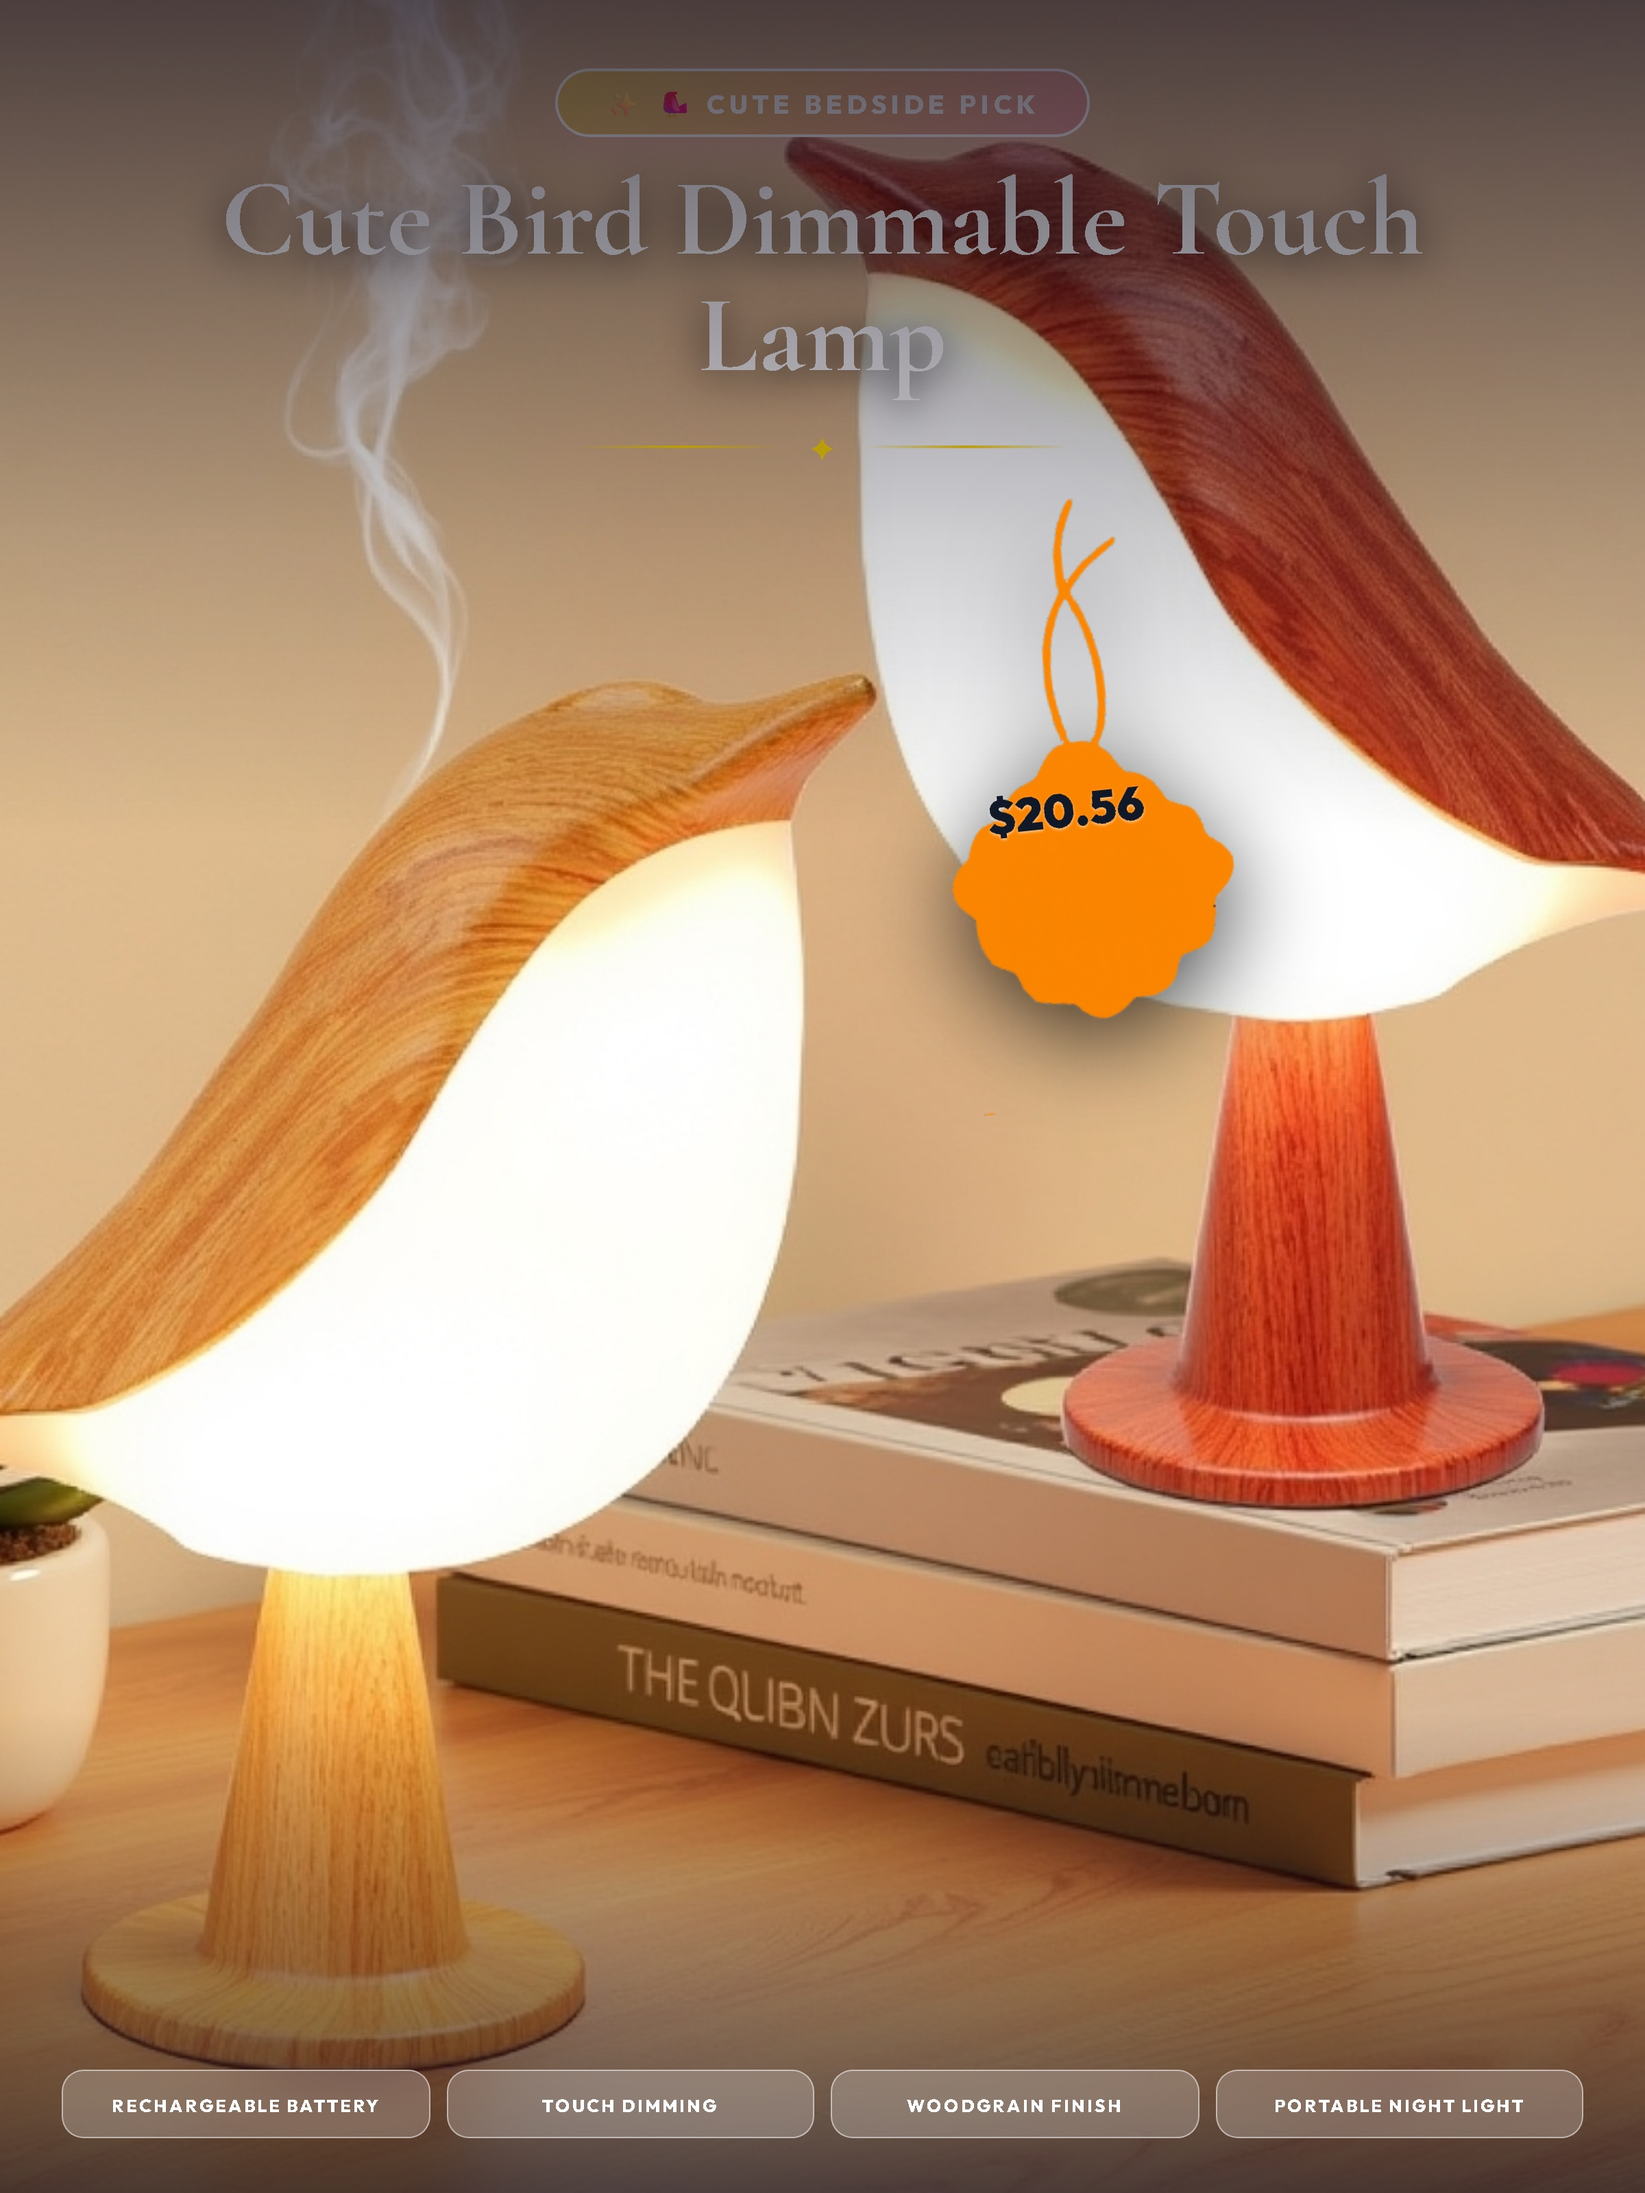
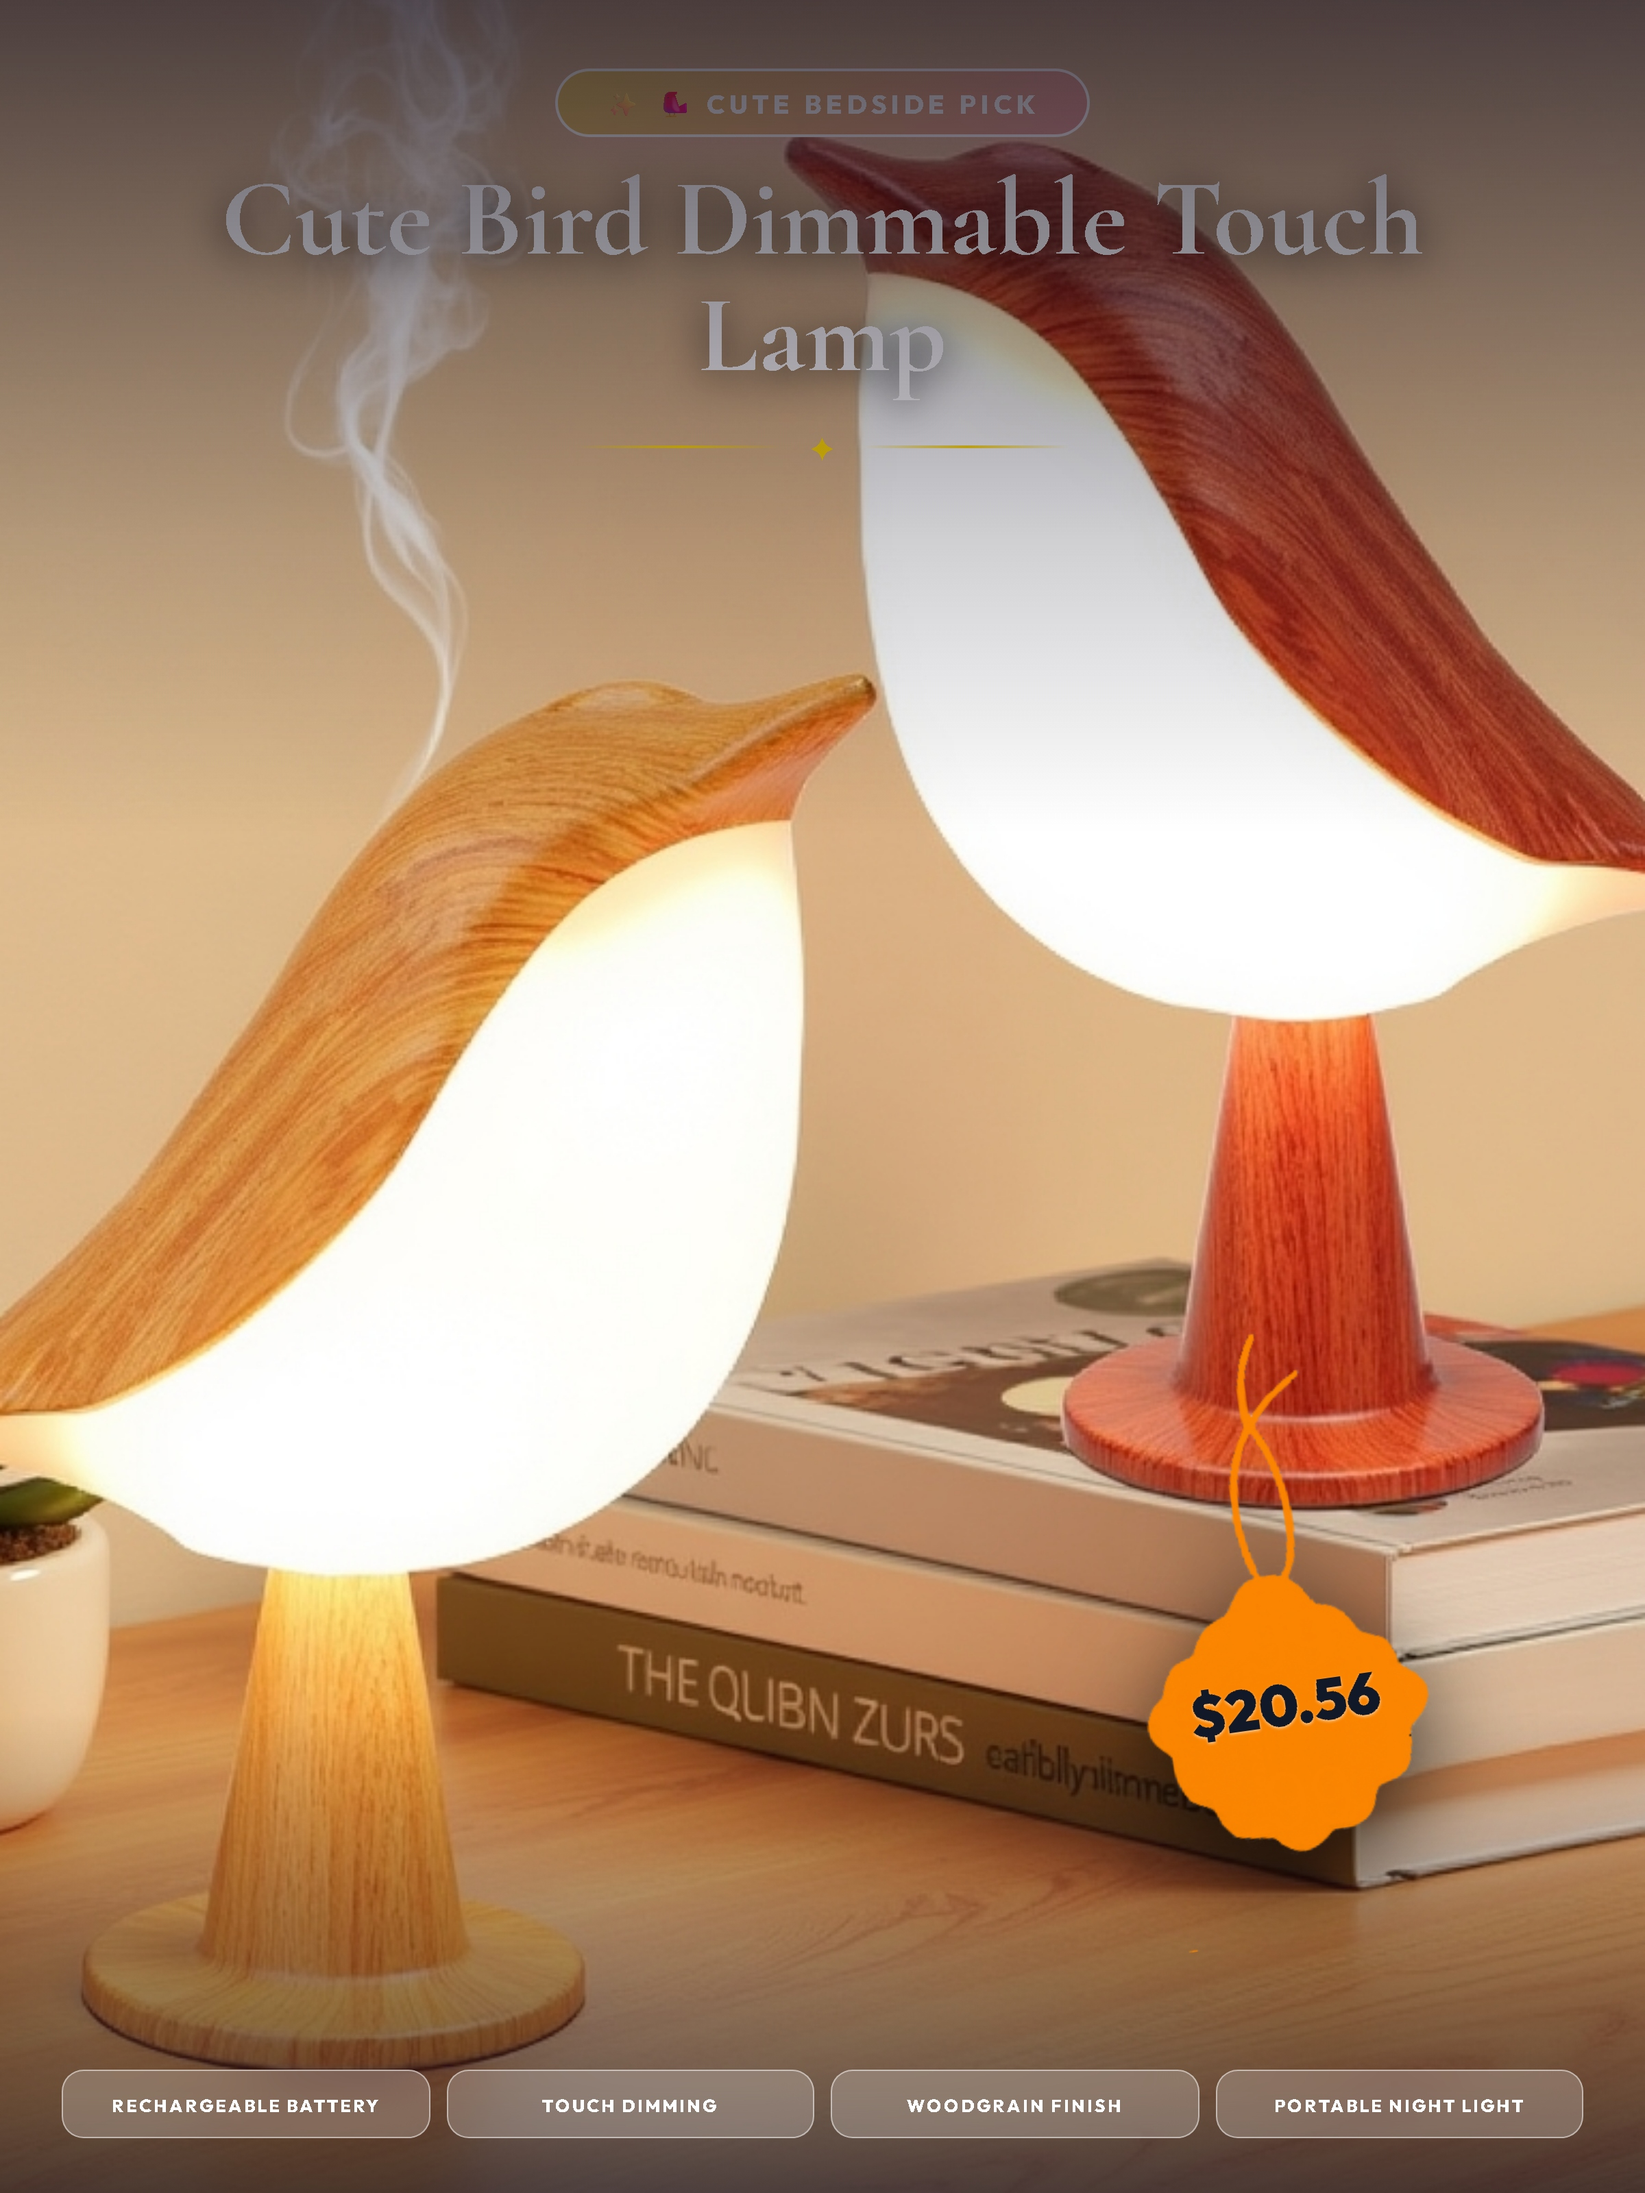
auto: publish re-rendered graphic for B0D8P8CSYP to GitHub Pages

Changed region(s): [[0.5625, 0.2188, 0.7812, 0.5], [0.6875, 0.625, 0.9062, 0.875]]

diff --git a/index.html b/index.html
@@ -691,7 +691,7 @@
                 <div class="card-img-container">
                     <div class="card-price-tag">$20.56</div>
                     <div class="card-rating">★ 4.8</div>
-                    <img id="hp-img-B0D8P8CSYP" src="./focus_product_B0D8P8CSYP_hook.jpg?v=1785401882" alt="Cute Bird Dimmable Touch Night Lamp">
+                    <img id="hp-img-B0D8P8CSYP" src="./focus_product_B0D8P8CSYP_hook.jpg?v=1785401983" alt="Cute Bird Dimmable Touch Night Lamp">
                 </div>
                 <div class="card-content">
                     <h2>Cute Bird Dimmable Touch Night Lamp</h2>

diff --git a/bridge_B0D8P8CSYP.html b/bridge_B0D8P8CSYP.html
@@ -317,7 +317,7 @@
 
         <!-- Hero Image -->
         <div class="img-container">
-            <img id="mainImage" class="hero-img" src="./focus_product_B0D8P8CSYP_hook.jpg?v=1785401882" alt="Cute Bird Dimmable Touch Night Lamp">
+            <img id="mainImage" class="hero-img" src="./focus_product_B0D8P8CSYP_hook.jpg?v=1785401983" alt="Cute Bird Dimmable Touch Night Lamp">
         </div>
 
         <!-- Image View Switcher -->
